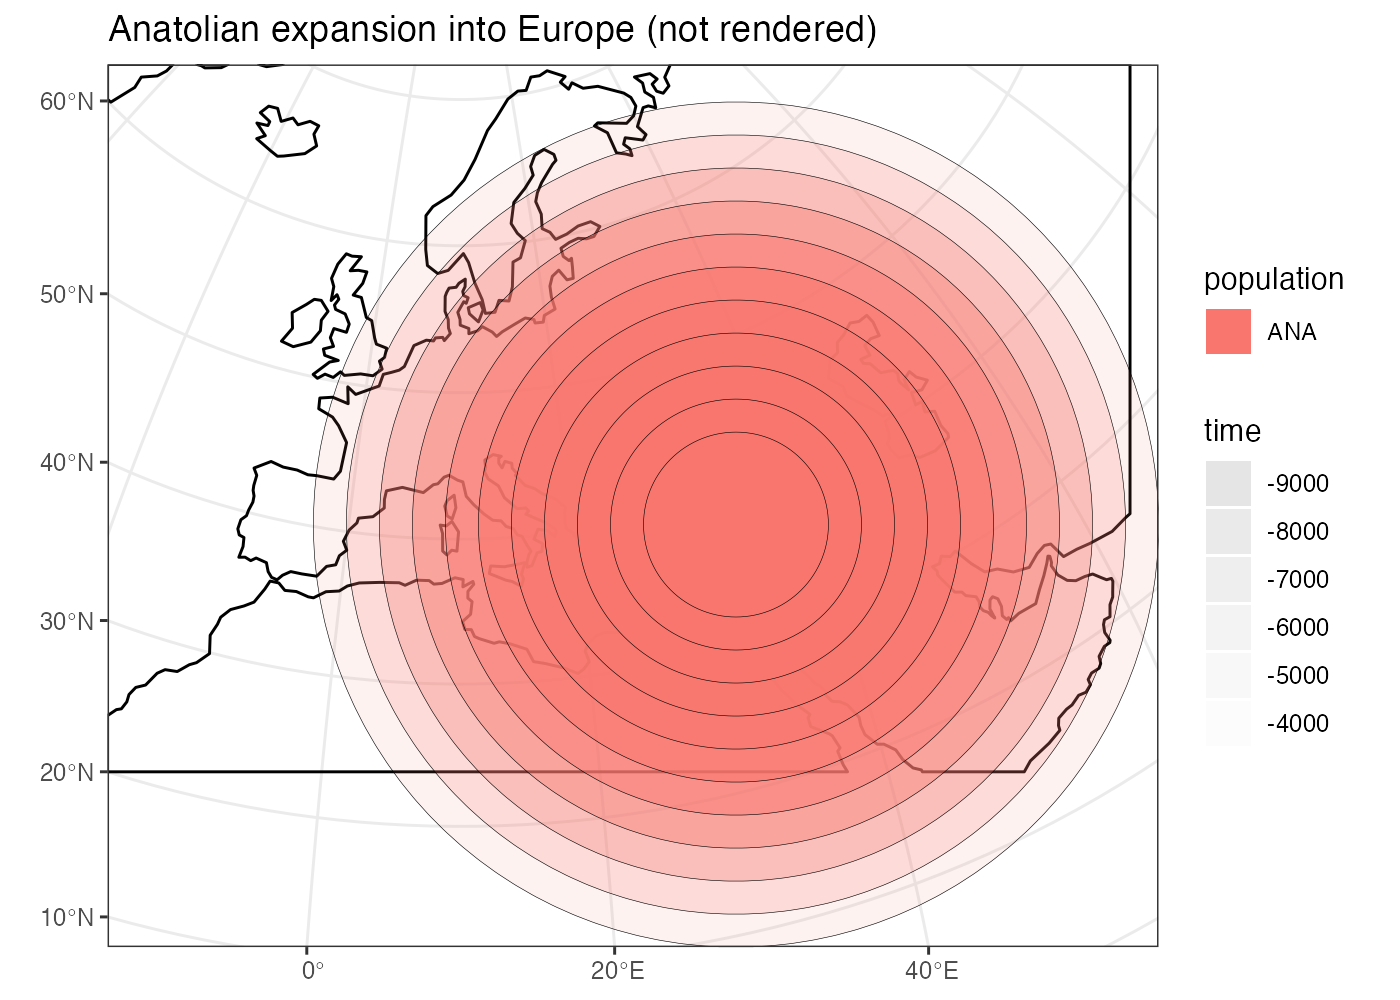
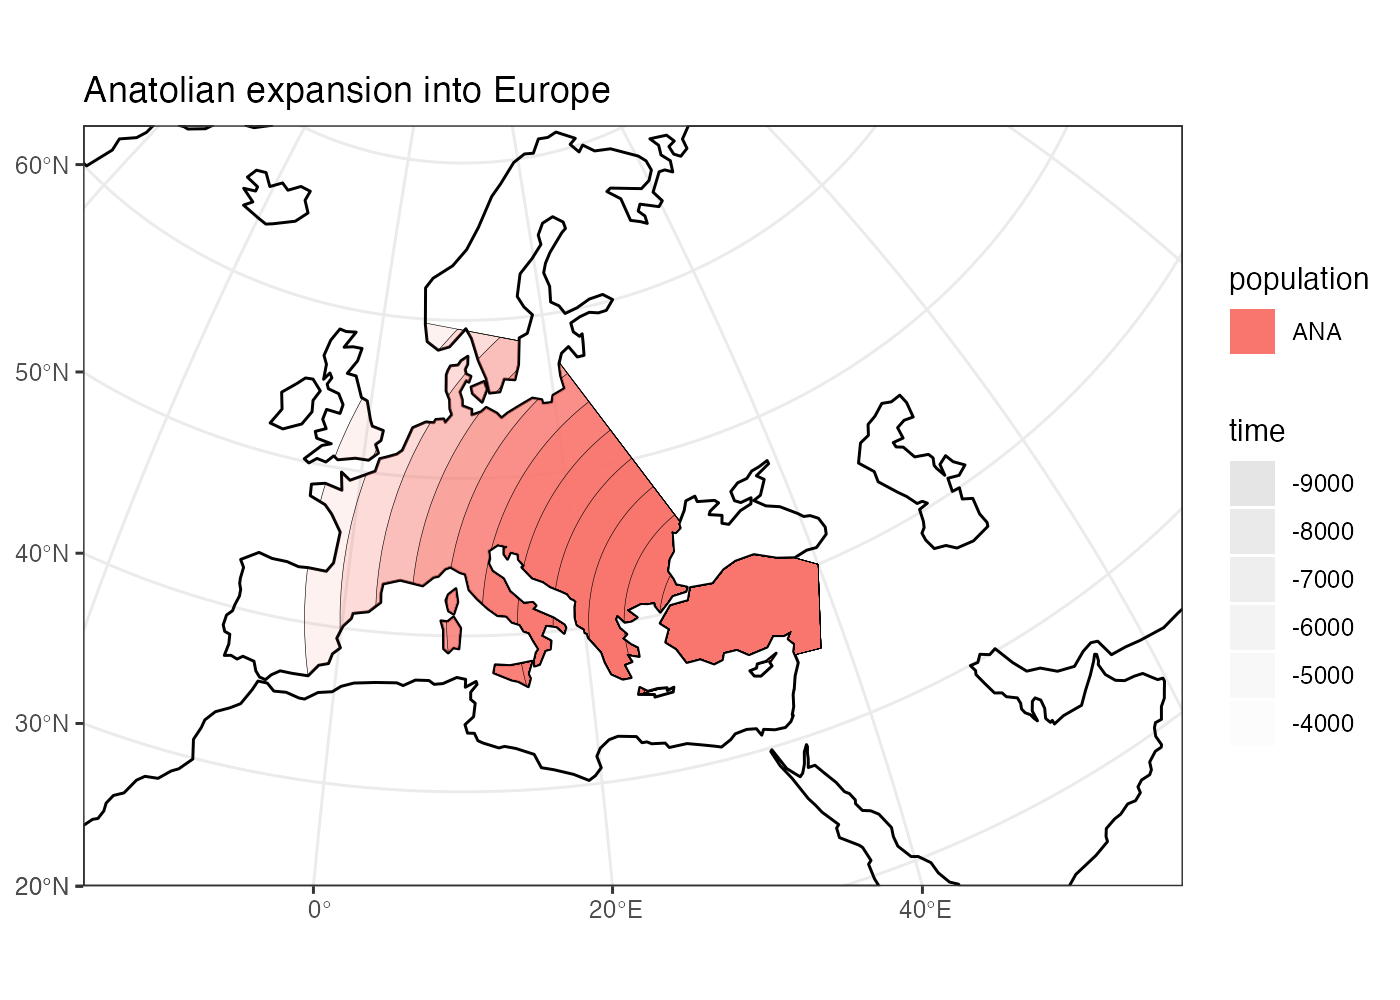
Update website

diff --git a/docs/articles/tutorial.html b/docs/articles/tutorial.html
@@ -132,7 +132,7 @@
   crs <span class="op">=</span> <span class="st">"EPSG:3035"</span>  <span class="co"># real projected CRS used internally</span>
 <span class="op">)</span>
 <span class="co">#&gt; OGR data source with driver: ESRI Shapefile </span>
-<span class="co">#&gt; Source: "/private/var/folders/hr/_t1b0f5n7c76yrfsg8yk9l100000gn/T/Rtmp9c4woV", layer: "ne_110m_land"</span>
+<span class="co">#&gt; Source: "/private/var/folders/hr/_t1b0f5n7c76yrfsg8yk9l100000gn/T/Rtmpn3sjJB", layer: "ne_110m_land"</span>
 <span class="co">#&gt; with 127 features</span>
 <span class="co">#&gt; It has 3 fields</span></code></pre></div>
 <p>Internally, the <code>world</code> object is a normal <code>sf</code> class object without additional components. This is unlike other <code>spammr</code> object described below, which are also <code>sf</code> objects but which carry additional internal components.</p>
@@ -294,8 +294,11 @@
 <h2 class="hasAnchor">
 <a href="#spatial-population-expansion" class="anchor"></a>Spatial population expansion</h2>
 <p>We can simulate the expanding range of a population using the function <code><a href="../reference/expand.html">expand()</a></code>, which accepts a parameter specifying by how many kilometers should the boundary expand (the <code>by</code> argument), how long should the expansion take (the <code>duration</code> argument) and how many intermediate spatial map snapshots should be exported representing this expansion (the <code>snapshots</code> argument).</p>
-<p>For instance, let’s represent the expansion of Anatolian farmers (this uses an optional parameter <code>region</code> which restricts the expansion only to Europe, instead of all around Anatolia):</p>
+<p>For instance, let’s represent the expansion of Anatolian farmers (this uses an optional parameter <code>region</code> which restricts the expansion only to Europe, instead of all around Anatolia).</p>
 <div class="sourceCode" id="cb18"><pre class="downlit sourceCode r">
+<code class="sourceCode R"><span class="fu"><a href="https://rdrr.io/r/graphics/plot.default.html">plot</a></span><span class="op">(</span><span class="va">ana</span>, title <span class="op">=</span> <span class="st">"Anatolian farmer population"</span><span class="op">)</span></code></pre></div>
+<p><img src="tutorial_files/figure-html/unnamed-chunk-15-1.png" width="700"></p>
+<div class="sourceCode" id="cb19"><pre class="downlit sourceCode r">
 <code class="sourceCode R"><span class="va">ana</span> <span class="op">&lt;-</span> <span class="va">ana</span> <span class="op">%&gt;%</span>
   <span class="fu"><a href="../reference/expand.html">expand</a></span><span class="op">(</span>
     by <span class="op">=</span> <span class="fl">2500</span>,
@@ -305,7 +308,7 @@
   <span class="op">)</span></code></pre></div>
 <p>Note that in principle, you could specify the entire spatio-temporal history of a population in a single pipeline using the pipe operator <code><a href="../reference/%&gt;%.html">%&gt;%</a></code>.</p>
 <p>We can inspect the object returned by the <code><a href="../reference/expand.html">expand()</a></code> function and see that it contains he spatial maps (“snapshots”) of the expansion process across time:</p>
-<div class="sourceCode" id="cb19"><pre class="downlit sourceCode r">
+<div class="sourceCode" id="cb20"><pre class="downlit sourceCode r">
 <code class="sourceCode R"><span class="va">ana</span>
 <span class="co">#&gt; Simple feature collection with 11 features and 2 fields</span>
 <span class="co">#&gt; Attribute-geometry relationship: 2 constant, 0 aggregate, 0 identity</span>
@@ -326,19 +329,19 @@
 <span class="co">#&gt; 9  ANA 5000 POLYGON ((9104404 2041488, ...</span>
 <span class="co">#&gt; 10 ANA 4500 POLYGON ((9354318 2048032, ...</span></code></pre></div>
 <p>We can (and should) check the results visually:</p>
-<div class="sourceCode" id="cb20"><pre class="downlit sourceCode r">
-<code class="sourceCode R"><span class="fu"><a href="https://rdrr.io/r/graphics/plot.default.html">plot</a></span><span class="op">(</span><span class="va">ana</span>, title <span class="op">=</span> <span class="st">"Anatolian expansion into Europe"</span><span class="op">)</span></code></pre></div>
-<p><img src="tutorial_files/figure-html/unnamed-chunk-17-1.png" width="700"></p>
-<p>To visually see what is really going on behind the scene, we can produce the complete, unrendered form of the expansion:</p>
 <div class="sourceCode" id="cb21"><pre class="downlit sourceCode r">
-<code class="sourceCode R"><span class="fu"><a href="https://rdrr.io/r/graphics/plot.default.html">plot</a></span><span class="op">(</span><span class="va">ana</span>, title <span class="op">=</span> <span class="st">"Anatolian expansion into Europe (not rendered)"</span>, rendering <span class="op">=</span> <span class="cn">F</span><span class="op">)</span></code></pre></div>
+<code class="sourceCode R"><span class="fu"><a href="https://rdrr.io/r/graphics/plot.default.html">plot</a></span><span class="op">(</span><span class="va">ana</span>, title <span class="op">=</span> <span class="st">"Anatolian expansion into Europe"</span><span class="op">)</span></code></pre></div>
 <p><img src="tutorial_files/figure-html/unnamed-chunk-18-1.png" width="700"></p>
+<p>To visually see what is really going on behind the scene, we can produce the complete, unrendered form of the expansion:</p>
+<div class="sourceCode" id="cb22"><pre class="downlit sourceCode r">
+<code class="sourceCode R"><span class="fu"><a href="https://rdrr.io/r/graphics/plot.default.html">plot</a></span><span class="op">(</span><span class="va">ana</span>, title <span class="op">=</span> <span class="st">"Anatolian expansion into Europe (not rendered)"</span>, rendering <span class="op">=</span> <span class="cn">F</span><span class="op">)</span></code></pre></div>
+<p><img src="tutorial_files/figure-html/unnamed-chunk-19-1.png" width="700"></p>
 </div>
 <div id="population-migration-across-the-landscape" class="section level2">
 <h2 class="hasAnchor">
 <a href="#population-migration-across-the-landscape" class="anchor"></a>Population migration across the landscape</h2>
 <p>To specify an explicit population movement (not expansion from a single starting location), we can use the function <code><a href="../reference/migrate.html">migrate()</a></code>. This accepts the coordinates of the destination point (<code>towards</code>), the <code>duration</code> of the migration, and the number of individual spatial maps to save during export (<code>snapshots</code>, same as the <code><a href="../reference/expand.html">expand()</a></code> function above):</p>
-<div class="sourceCode" id="cb22"><pre class="downlit sourceCode r">
+<div class="sourceCode" id="cb23"><pre class="downlit sourceCode r">
 <code class="sourceCode R"><span class="va">yam</span> <span class="op">&lt;-</span> <span class="va">yam</span> <span class="op">%&gt;%</span>
   <span class="fu"><a href="../reference/migrate.html">migrate</a></span><span class="op">(</span>
     towards <span class="op">=</span> <span class="fu"><a href="https://rdrr.io/r/base/c.html">c</a></span><span class="op">(</span><span class="fl">10</span>, <span class="fl">48</span><span class="op">)</span>, <span class="co"># migrate towards this point</span>
@@ -346,7 +349,7 @@
     snapshots <span class="op">=</span> <span class="fl">8</span>        <span class="co"># how many intermediate maps should be saved?</span>
 <span class="op">)</span></code></pre></div>
 <p>We can inspect the object returned by the <code><a href="../reference/migrate.html">migrate()</a></code> function and see that it contains not just the first YAM population range at 7000 years ago, but also the ranges of the intermediate locations:</p>
-<div class="sourceCode" id="cb23"><pre class="downlit sourceCode r">
+<div class="sourceCode" id="cb24"><pre class="downlit sourceCode r">
 <code class="sourceCode R"><span class="va">yam</span>
 <span class="co">#&gt; Simple feature collection with 9 features and 2 fields</span>
 <span class="co">#&gt; Attribute-geometry relationship: 2 constant, 0 aggregate, 0 identity</span>
@@ -365,17 +368,17 @@
 <span class="co">#&gt; 8 YAM 6125 POLYGON ((3936349 2271616, ...</span>
 <span class="co">#&gt; 9 YAM 6000 POLYGON ((3718998 2151529, ...</span></code></pre></div>
 <p>Checking the result visually again, we see:</p>
-<div class="sourceCode" id="cb24"><pre class="downlit sourceCode r">
+<div class="sourceCode" id="cb25"><pre class="downlit sourceCode r">
 <code class="sourceCode R"><span class="fu"><a href="https://rdrr.io/r/graphics/plot.default.html">plot</a></span><span class="op">(</span><span class="va">yam</span>, title <span class="op">=</span> <span class="st">"Intermediate migration maps"</span><span class="op">)</span></code></pre></div>
-<p><img src="tutorial_files/figure-html/unnamed-chunk-21-1.png" width="700"></p>
+<p><img src="tutorial_files/figure-html/unnamed-chunk-22-1.png" width="700"></p>
 </div>
 <div id="plotting-the-combined-population-ranges" class="section level2">
 <h2 class="hasAnchor">
 <a href="#plotting-the-combined-population-ranges" class="anchor"></a>Plotting the combined population ranges</h2>
 <p>The generic function <code><a href="https://rdrr.io/r/graphics/plot.default.html">plot()</a></code> can handle a combination of population ranges, and can partition them in individual facets. This is very useful for visual inspection of the specified model and for looking for potential issues before the export of individual spatio-temporal maps.</p>
-<div class="sourceCode" id="cb25"><pre class="downlit sourceCode r">
+<div class="sourceCode" id="cb26"><pre class="downlit sourceCode r">
 <code class="sourceCode R"><span class="fu"><a href="https://rdrr.io/r/graphics/plot.default.html">plot</a></span><span class="op">(</span><span class="va">whg</span>, <span class="va">neol</span>, <span class="va">yam</span>, <span class="va">ana</span><span class="op">)</span></code></pre></div>
-<p><img src="tutorial_files/figure-html/unnamed-chunk-22-1.png" width="700"></p>
+<p><img src="tutorial_files/figure-html/unnamed-chunk-23-1.png" width="700"></p>
 </div>
 <div id="rasterization-and-export" class="section level1">
 <h1 class="hasAnchor">
@@ -385,18 +388,22 @@
 <p><strong>TODO: write a short tutorial on the SLiM side of the problem too.</strong></p>
 <p>How do we link the visual (still vectorized!) spatial population ranges shown above to SLiM? We need to export them in a rasterized form as greyscale bitmaps The key is a <code>spammr</code> function <code><a href="../reference/rasterize.html">rasterize()</a></code>.</p>
 <p>Without any arguments, the function simply generates a (named) list of ggplot2 objects:</p>
-<div class="sourceCode" id="cb26"><pre class="downlit sourceCode r">
+<div class="sourceCode" id="cb27"><pre class="downlit sourceCode r">
 <code class="sourceCode R"><span class="va">raster_ana</span> <span class="op">&lt;-</span> <span class="fu"><a href="../reference/rasterize.html">rasterize</a></span><span class="op">(</span><span class="va">ana</span><span class="op">)</span>
 <span class="fu"><a href="https://rdrr.io/r/base/names.html">names</a></span><span class="op">(</span><span class="va">raster_ana</span><span class="op">)</span>
 <span class="co">#&gt;  [1] "ANA_9000" "ANA_8500" "ANA_8000" "ANA_7500" "ANA_7000" "ANA_6500"</span>
 <span class="co">#&gt;  [7] "ANA_6000" "ANA_5500" "ANA_5000" "ANA_4500" "ANA_4000"</span></code></pre></div>
 <p>Each of these objects contains a black-and-white rasterized version of the population range at a particular snapshot in time. Let’s plot one of them (representing the spatial range of the Anatolian farmers 5,500 thousand years ago - already at the stage in which they migrated to central Europe):</p>
-<div class="sourceCode" id="cb27"><pre class="downlit sourceCode r">
+<div class="sourceCode" id="cb28"><pre class="downlit sourceCode r">
 <code class="sourceCode R"><span class="va">raster_ana</span><span class="op">[[</span><span class="st">"ANA_5500"</span><span class="op">]</span><span class="op">]</span></code></pre></div>
-<p><img src="tutorial_files/figure-html/unnamed-chunk-24-1.png" width="700"></p>
+<p><img src="tutorial_files/figure-html/unnamed-chunk-25-1.png" width="700"></p>
+<p>And here’s the whole series:</p>
+<div class="sourceCode" id="cb29"><pre class="downlit sourceCode r">
+<code class="sourceCode R"><span class="fu">patchwork</span><span class="fu">::</span><span class="fu"><a href="https://patchwork.data-imaginist.com/reference/wrap_plots.html">wrap_plots</a></span><span class="op">(</span><span class="va">raster_ana</span><span class="op">)</span></code></pre></div>
+<p><img src="tutorial_files/figure-html/unnamed-chunk-26-1.png" width="700"></p>
 <p>This is what will be ultimately loaded into SLiM, using our back-end SLiM script which will swap different spatial maps in and out, as needed throughout the course of the simulation.</p>
 <p>Normally, we will save each spatial map into a directory, to which we will then direct the backend SLiM script. The same directory will also contain other information about population splits, admixture events, etc.</p>
-<div class="sourceCode" id="cb28"><pre class="downlit sourceCode r">
+<div class="sourceCode" id="cb30"><pre class="downlit sourceCode r">
 <code class="sourceCode R"><span class="fu"><a href="../reference/rasterize.html">rasterize</a></span><span class="op">(</span>
   <span class="va">whg</span>, <span class="va">ana</span>, <span class="va">neol</span>, <span class="va">yam</span>,
   outdir <span class="op">=</span> <span class="st">"~/projects/spammr/vignettes/model"</span>
@@ -424,7 +431,7 @@
 <span class="co">#&gt; Saving 7 x 5 in image</span>
 <span class="co">#&gt; Saving 7 x 5 in image</span></code></pre></div>
 <p>Let’s check the contents of the directory:</p>
-<div class="sourceCode" id="cb29"><pre class="downlit sourceCode r">
+<div class="sourceCode" id="cb31"><pre class="downlit sourceCode r">
 <code class="sourceCode R"><span class="fu"><a href="https://rdrr.io/r/base/list.files.html">list.files</a></span><span class="op">(</span><span class="st">"~/projects/spammr/vignettes/model"</span><span class="op">)</span>
 <span class="co">#&gt;  [1] "ANA_4000.png"  "ANA_4500.png"  "ANA_5000.png"  "ANA_5500.png" </span>
 <span class="co">#&gt;  [5] "ANA_6000.png"  "ANA_6500.png"  "ANA_7000.png"  "ANA_7500.png" </span>
